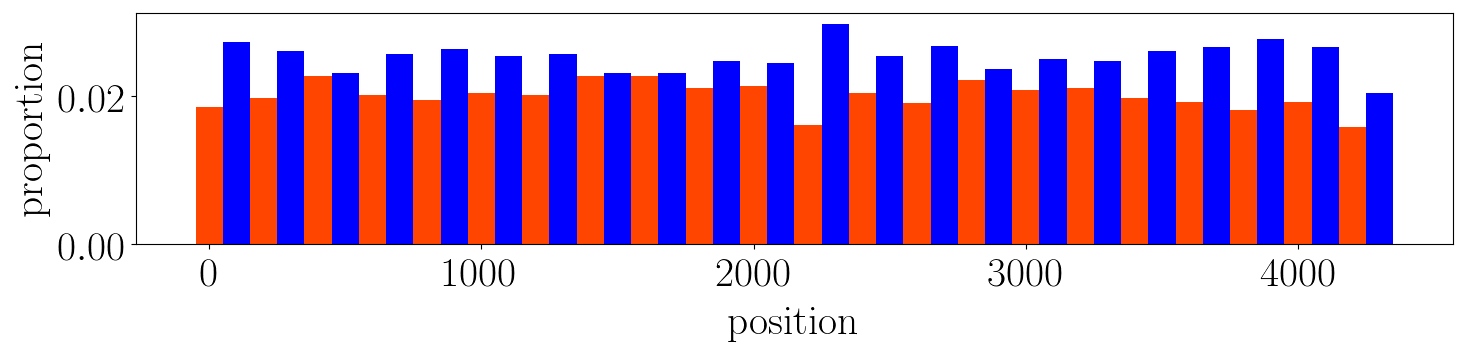
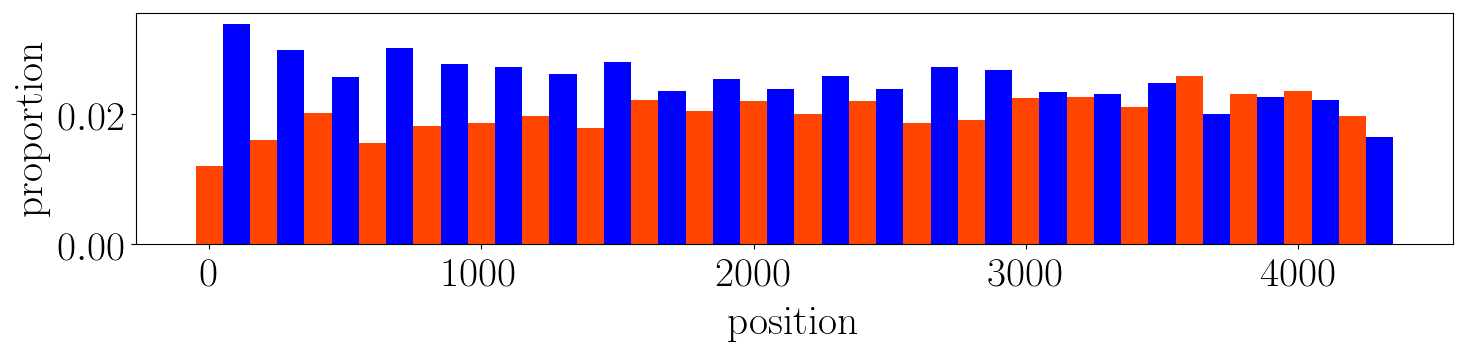
evaluate LSAT and bugfix in plots

diff --git a/src/evaluation/evaluate.py b/src/evaluation/evaluate.py
@@ -725,6 +725,7 @@ class DELTR_Evaluator():
 
         elif self.__dataset == 'law-gender':
             self.__trainingDir = self.__trainingDir + 'LawStudents/gender/'
+
             gamma = 'colorblind'
             pathsForColorblind = [self.__trainingDir + 'GAMMA=0/']
             pathsToScores = [self.__trainingDir + 'COLORBLIND/']
@@ -982,18 +983,6 @@ class DELTR_Evaluator():
             self.__protected_percentage_per_chunk_average_all_queries()
             self.__evaluate()
             self.__experimentNamesAndFiles["fair-pre-p*"] = self.__evaluationFilename
-
-            #######################################################################################
-            gamma = 'PREPROCESSED_PMinus'
-            pathsToScores = [self.__trainingDir + 'PREPROCESSED_PMinus/']
-
-            self.__original, self.__predictions = self.__prepareData(pathsToScores)
-            self.__evaluationFilename = self.__resultDir + 'performanceResults_Gamma=' + gamma + '_' + self.__dataset + '.txt'
-            self.__plotFilename = self.__resultDir + 'protNonprotDistribution_Gamma=' + gamma + '_' + self.__dataset + '.png'
-
-            self.__protected_percentage_per_chunk_average_all_queries()
-            self.__evaluate()
-            self.__experimentNamesAndFiles["fair-pre-p-"] = self.__evaluationFilename
 
             ######################################################################################
             gamma = 'PREPROCESSED_PPlus'
@@ -1424,7 +1413,7 @@ class DELTR_Evaluator():
             factor = 2.0
 
         if "law-gender" in filename:
-            factor = 1.0
+            factor = 1.3
 
         if "law-black" in filename:
             factor = 1.5
